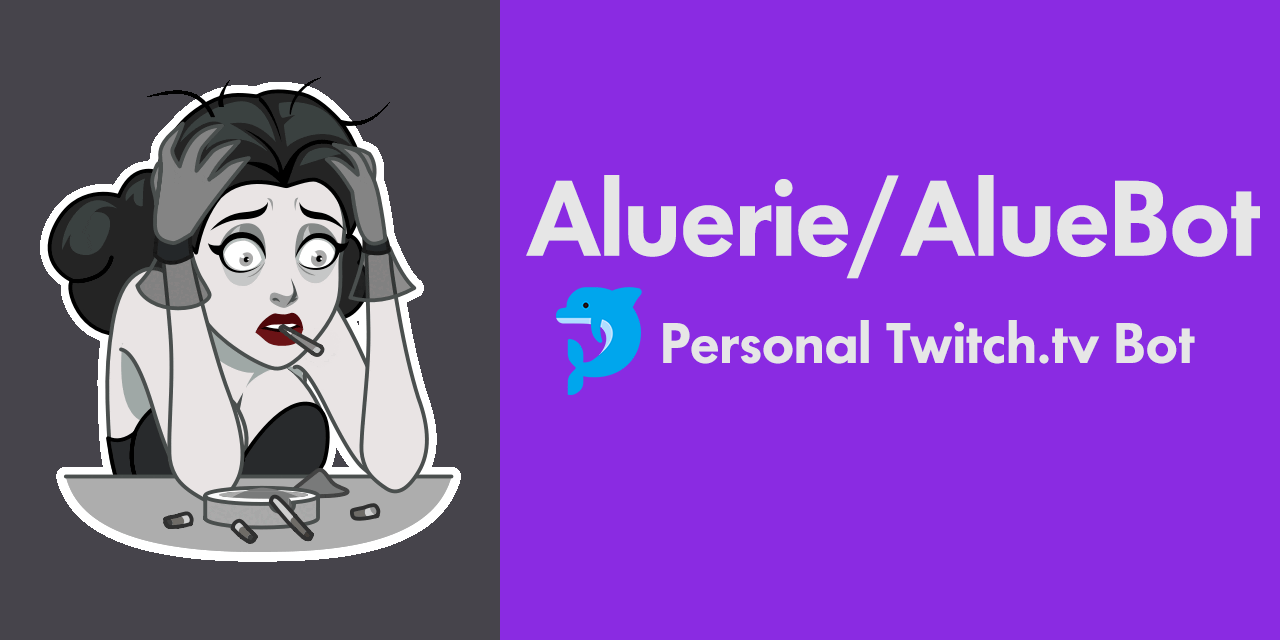
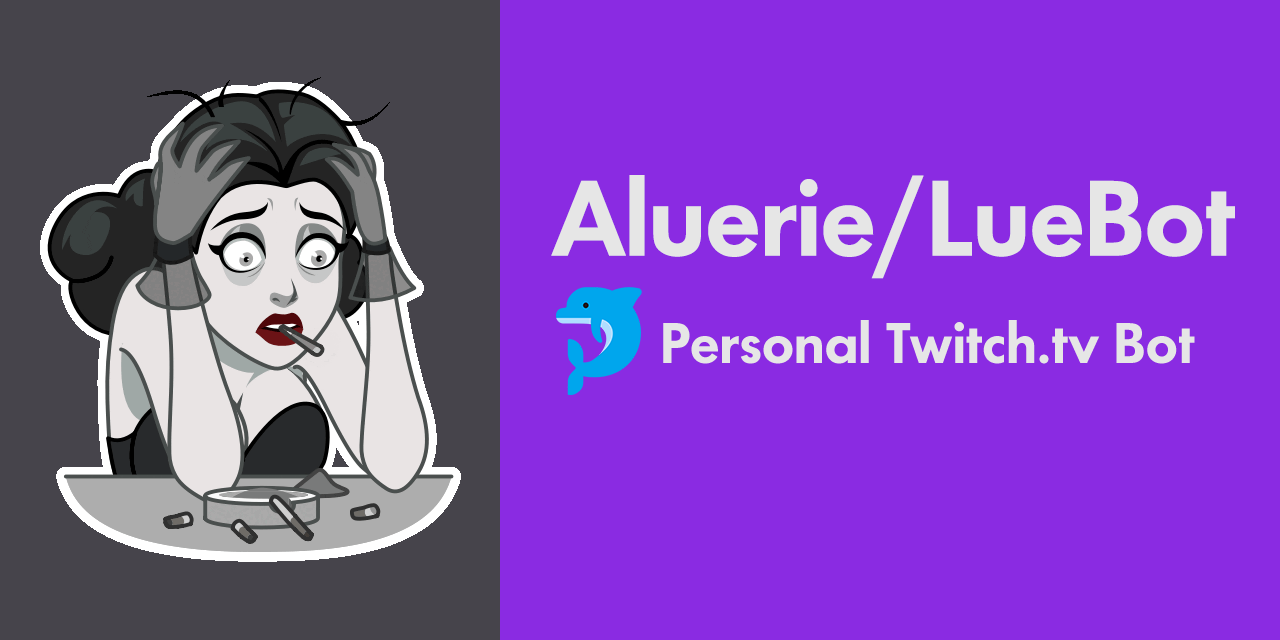
🪥Update !run and display name
Update misc_commands.py

Update misc_commands.py

🪥Update `!run`

🪥Fix display name

Changed region(s): [[0.4062, 0.25, 1.0, 0.4375]]

diff --git a/ext/misc_commands.py b/ext/misc_commands.py
@@ -29,10 +29,13 @@ class MiscellaneousCommands(LueComponent):
     async def run(self, ctx: commands.Context) -> None:
         """Explanation of my first Sekiro hitless run."""
         msg = (
-            "All Memories & Unique MiniBosses (so no repetitions) & save-file for Inner+Shura. "
-            "The idea: I have to learn and practice all boss move-sets. "
-            "Almost Charmless (take it back pre-demon). Mostly Sword+Shuriken (~31/39 boss fights). "
-            "Somewhat loop-less. For more look !notes."
+            "All Unique Bosses: includes All Memories, Extra MiniBosses without repetitions "
+            "(i.e. one Headless, one Shichi, O'Rin, etc) and "
+            "we load a save-file with Reflections for Emma, Fire Isshin and Inner Bosses. "
+            "Charmless*. No forced loops. "
+            "Sword+Shuriken for bosses that I like (~34/40). "
+            "Mist Raven for lighting reversal. "
+            "Full blasting for the rest. For more look !notes."
         )
         await ctx.send(msg)
 

diff --git a/bot/bot.py b/bot/bot.py
@@ -49,10 +49,10 @@ class LueBot(commands.Bot):
 
     The name `AlueBot` is used mainly for display purposes here:
         * the bot's twitch account user name (just so it's clear that it's Aluerie's bot);
-        * the GitHub repository name and `README.md` file.
         * the bot's Steam account's display name;
 
     Name `LueBot` is pretty much used elsewhere:
+        * the GitHub repository name and `README.md` file.
         * class name;
         * folder name;
         * systemd service name;

diff --git a/README.md b/README.md
@@ -1,6 +1,11 @@
-# AlueBot
+# 🐬 LueBot (@AlueBot on twitch.tv)
 
-![AlueBot Social Preview](<assets/images/profile/GitHub - Social Preview.png>)
+![LueBot Social Preview](<assets/images/profile/GitHub - Social Preview.png>)
 
-1. [🏠 Wiki](https://github.com/Aluerie/AlueBot/wiki) - link to github wiki page, most notably:
-    * [🛠 Running/Installation guide](https://github.com/Aluerie/AlueBot/wiki/%F0%9F%9B%A0%EF%B8%8FRunning-Installation-guide)
+> [!NOTE]
+> The Display name for this bot on twitch.tv is `@AlueBot` (as in `Alue`rie's `Bot`). But I use `@LueBot` naming everywhere else (i.e. repository name, class/variable names, etc.) to avoid glance-value confusion with my discord bot, which is named [`@AluBot`](<https://github.com/Aluerie/AluBot>).
+>
+> ![LueBot Display Name](<assets/images/display_name.png>)
+
+1. [🏠 Wiki](https://github.com/Aluerie/LueBot/wiki) - link to github wiki page, most notably:
+    * [🛠 Running/Installation guide](https://github.com/Aluerie/LueBot/wiki/%F0%9F%9B%A0%EF%B8%8FRunning-Installation-guide)
